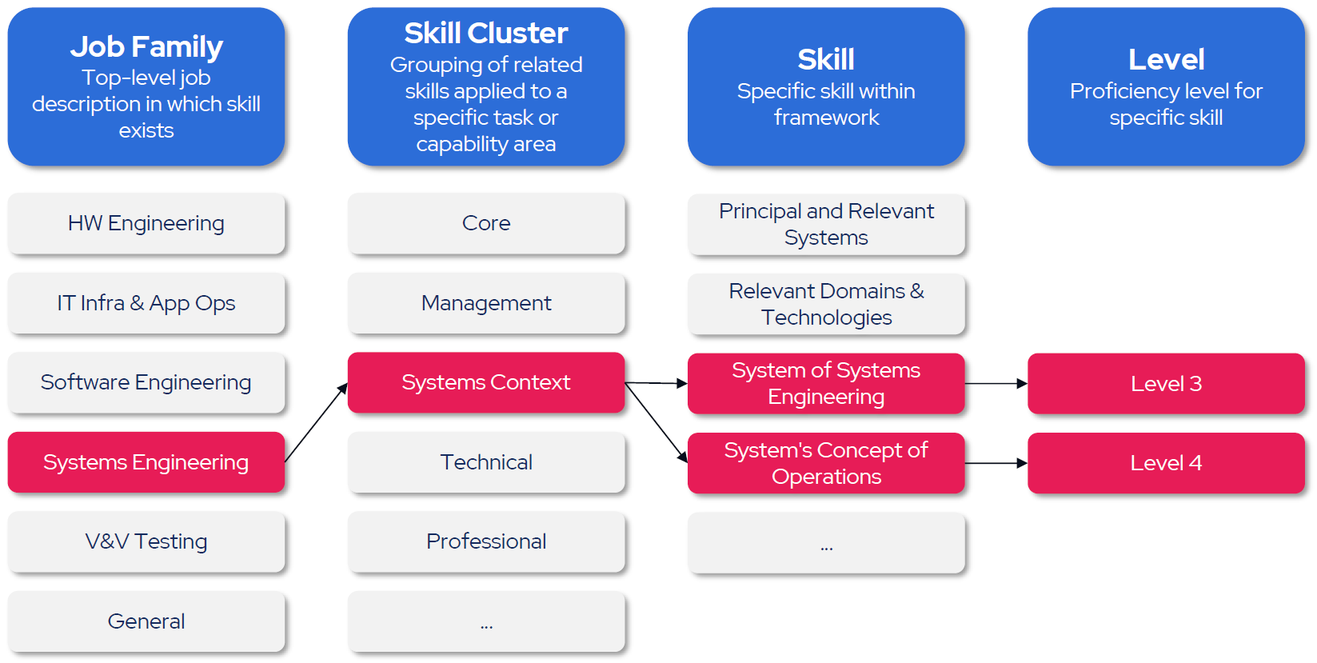
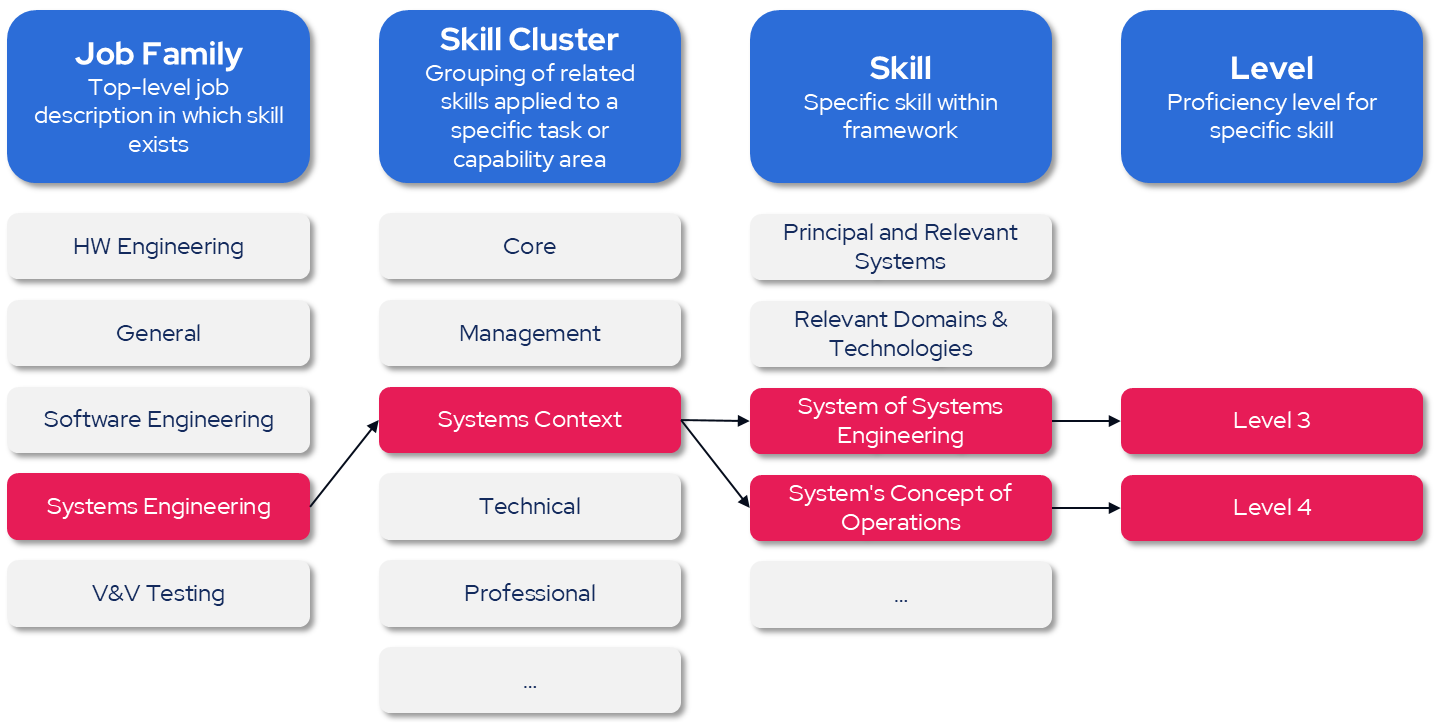
Update survey: v4 data, grid order, alignment fixes, and UI refinements
- Regenerate data.js from Skills Repository v4 (556 skills, 5 job families, IT Infra & App Ops removed)
- Update skills-structure.png with new diagram
- Reorder page 3 grids: Competencies → Technical → SME
- Reorder page 4 summary to match: Competencies → Technical → SME
- Rename summary heading from "Competencies Skills" to "Competencies"
- Fix grid alignment: use visible disabled JF dropdown instead of hidden dropdown + static label
- Style locked "General" dropdown to match normal appearance (white bg, no arrow)
- Remove IT Infra & App Ops filter checkbox from admin dashboard

diff --git a/survey/cubic-skills-survey/data.js b/survey/cubic-skills-survey/data.js
@@ -114,13 +114,17 @@ const SKILLS_DATA = {
         "Organizational change enablement",
         "Organizational change management"
       ],
-      "Systems Development": [
+      "Software Development": [
         "Animation development",
+        "Card and Transaction encryption and security",
+        "Card/Reader protocols and development",
+        "EMV processing and certification",
         "Functional testing",
         "Hardware design",
         "Infrastructure design",
         "Network design",
         "Non-functional testing",
+        "OS Drivers and Bord Firmware support development",
         "Process testing",
         "Product management",
         "Programming/software development",
@@ -269,17 +273,23 @@ const SKILLS_DATA = {
         "Test Planning"
       ],
       "Automation": [
+        "AI/ML driven testing",
         "Automation Strategy",
         "CI/CD Integration",
         "Framework Design",
         "Scripting",
+        "Test data management at scal",
         "Tool Selection"
       ],
       "Non-Functional": [
+        "Accessibility testing",
         "Compatibility Testing",
+        "Load testing",
         "Performance Testing",
         "Reliability Testing",
         "Security Testing",
+        "Security testing",
+        "Stress testing",
         "Usability Testing"
       ],
       "Agile Testing": [
@@ -289,73 +299,13 @@ const SKILLS_DATA = {
         "Test-Driven Development"
       ],
       "Tools": [
+        "Dashboard tools familiarity",
         "Data Management",
         "Defect Tracking",
         "Environment Setup",
         "Test Management Tools",
+        "Test reporting",
         "Version Control"
-      ]
-    },
-    "IT Infra and App Ops": {
-      "It Service Management": [
-        "Availability Management",
-        "Capacity Management",
-        "Change Management",
-        "Configuration Management (CMDB)",
-        "Incident Management",
-        "Knowledge Management",
-        "Major Incident Management",
-        "Problem Management",
-        "Service Level Management",
-        "Service Request Management"
-      ],
-      "Infrastructure Engineering": [
-        "Cloud Infrastructure (AWS/Azure/GCP)",
-        "Data Center Operations",
-        "Disaster Recovery & Business Continuity",
-        "Hybrid Cloud Architecture",
-        "Infrastructure Monitoring & Alerting",
-        "Infrastructure Security Hardening",
-        "Load Balancing & Traffic Management",
-        "Network Engineering & Administration",
-        "Server & Virtualization Management",
-        "Storage & Backup Management"
-      ],
-      "Application Operations & Support": [
-        "Application Configuration Management",
-        "Batch & Job Scheduling Management",
-        "End-User Support Escalation",
-        "Environment Management (Dev/Test/Prod)",
-        "Log Analysis & Troubleshooting",
-        "Monitoring & Observability",
-        "Patch & Upgrade Management",
-        "Performance Tuning & Optimization",
-        "Production Application Support",
-        "Release & Deployment Management"
-      ],
-      "Devops & Reliability Engineering": [
-        "Automation & Scripting (Python, Bash, PowerShell)",
-        "Blue/Green & Canary Deployments",
-        "CI/CD Pipeline Management",
-        "Chaos Engineering",
-        "Containerization (Docker, Kubernetes)",
-        "Infrastructure as Code (Terraform, CloudFormation)",
-        "Observability Engineering",
-        "Platform Engineering Practices",
-        "Release Automation",
-        "Site Reliability Engineering (SRE) Practices"
-      ],
-      "It Governance & Security Operations": [
-        "Access & Identity Management",
-        "Audit & Regulatory Compliance",
-        "Business Continuity Planning",
-        "Data Protection & Encryption",
-        "IT Controls & Compliance",
-        "Policy & Standards Development",
-        "Risk Assessment & Mitigation",
-        "Security Monitoring & Incident Response",
-        "Third-Party Risk Management",
-        "Vulnerability Management"
       ]
     },
     "HW Engineering": {
@@ -529,35 +479,68 @@ const SKILLS_DATA = {
     "General": {
       "Front-End Engineering": [
         "Angular",
+        "Flutter",
         "HTML5 / CSS3",
         "JavaScript (ES6+)",
+        "Next.js",
         "React",
+        "React Native",
+        "SASS / SCSS",
         "State Management (Redux, NgRx, MobX)",
         "TypeScript",
         "UI Performance Optimization",
         "Vue.js",
-        "Web Accessibility (WCAG / ADA)"
+        "Web Accessibility (WCAG / ADA)",
+        "Webpack / Vite"
       ],
       "Back-End Engineering": [
+        ".NET / ASP.NET",
+        "Apache Kafka",
         "Authentication & Authorization (OAuth2, JWT)",
+        "C",
         "C#",
+        "C++",
+        "COBOL",
         "Go",
         "GraphQL",
+        "Groovy",
+        "Hibernate / JPA",
         "Java",
+        "Kotlin",
         "Node.js",
+        "Objective-C",
+        "PHP",
         "Python",
-        "RESTful API Design"
+        "RESTful API Design",
+        "RabbitMQ",
+        "Ruby",
+        "Rust",
+        "Scala",
+        "Spring / Spring Boot",
+        "Swift",
+        "gRPC"
       ],
       "Data Engineering & Analytics": [
+        "Apache Airflow",
         "Apache Kafka",
         "Apache Spark",
         "Data Warehousing (Snowflake, Redshift, BigQuery)",
+        "Databricks",
         "ETL / ELT Pipelines",
+        "Hadoop",
+        "MATLAB",
+        "MySQL",
         "NoSQL Databases (MongoDB, Cassandra)",
+        "NumPy",
+        "Oracle Database",
+        "Pandas",
+        "PostgreSQL",
         "Power BI",
         "Real-Time Data Processing",
         "SQL",
-        "Tableau"
+        "Snowflake",
+        "Tableau",
+        "dbt"
       ],
       "Machine Learning & AI": [
         "Anomaly Detection",
@@ -602,13 +585,25 @@ const SKILLS_DATA = {
       ],
       "Cloud & Infrastructure": [
         "AWS",
+        "AWS EC2 / S3",
+        "AWS Lambda",
+        "Ansible",
         "Azure",
+        "Azure DevOps",
+        "Azure Functions",
         "CI/CD Pipelines",
+        "Chef",
         "Cloud Networking",
         "Docker",
+        "Google Cloud Compute",
         "Google Cloud Platform",
         "Infrastructure as Code (Terraform, CloudFormation)",
-        "Kubernetes"
+        "Kubernetes",
+        "Linux Administration",
+        "OpenShift",
+        "Puppet",
+        "VMware",
+        "Windows Server Administration"
       ],
       "Electronics Design & PCB Engineering": [
         "Altium",
@@ -705,6 +700,42 @@ const SKILLS_DATA = {
       ],
       "Hardware Design & Architecture": [
         "Pollutanat Materials"
+      ],
+      "DevOps & Platform Engineering": [
+        "Artifactory",
+        "Bitbucket",
+        "ELK Stack (Elasticsearch, Logstash, Kibana)",
+        "Git",
+        "GitHub",
+        "GitLab",
+        "Grafana",
+        "Jenkins",
+        "Nexus Repository",
+        "Prometheus",
+        "SonarQube"
+      ],
+      "Cybersecurity": [
+        "OWASP",
+        "Public Key Infrastructure (PKI)",
+        "SAST / DAST Tools",
+        "SIEM (Splunk)",
+        "Zero Trust Architecture"
+      ],
+      "Embedded Systems Engineering": [
+        "Assembly",
+        "CAN Bus",
+        "Embedded C",
+        "FreeRTOS",
+        "I2C",
+        "SPI",
+        "UART"
+      ],
+      "Enterprise / Business Systems": [
+        "JCL",
+        "Mainframe (z/OS)",
+        "SAP ABAP",
+        "Salesforce",
+        "ServiceNow"
       ]
     }
   }
@@ -713,7 +744,6 @@ const SKILLS_DATA = {
 const JOB_FAMILIES = [
   "General",
   "HW Engineering",
-  "IT Infra and App Ops",
   "Software Engineering",
   "Systems Engineering",
   "V&V Testing"

diff --git a/survey/cubic-skills-survey/app.js b/survey/cubic-skills-survey/app.js
@@ -191,16 +191,9 @@ function buildSkillRows(gridId, skillType) {
     row.appendChild(num);
 
     if (isHardcodedJF) {
-      // Hidden Job Family dropdown pre-set to "General"
+      // Job Family dropdown locked to "General" (visible but disabled for alignment)
       const jfGroup = createDropdownGroup('Job Family', `${skillType}-${i}-jf`, ['General'], true);
-      jfGroup.style.display = 'none';
       row.appendChild(jfGroup);
-
-      // Show "General" as static text in the first column
-      const jfLabel = document.createElement('div');
-      jfLabel.className = 'skill-jf-static';
-      jfLabel.textContent = 'General';
-      row.appendChild(jfLabel);
 
       // Skill Cluster dropdown (visible immediately, populated with General's clusters)
       const clusters = SKILLS_DATA[skillType] && SKILLS_DATA[skillType]['General']
@@ -238,10 +231,12 @@ function buildSkillRows(gridId, skillType) {
       skillGroup.appendChild(otherInput);
     }
 
-    // Pre-select "General" for hardcoded types
+    // Pre-select "General" and lock JF dropdown for hardcoded types
     if (isHardcodedJF) {
       const jfSelect = document.getElementById(`${skillType}-${i}-jf`);
       jfSelect.value = 'General';
+      jfSelect.disabled = true;
+      jfSelect.classList.add('locked-jf');
     }
 
     // Setup cascading logic
@@ -665,9 +660,9 @@ function buildSummary() {
   container.innerHTML = '<h3>Your Selections Summary</h3>';
 
   const sections = [
-    { title: 'Competencies Skills', data: surveyState.competencies },
-    { title: 'SME Skills', data: surveyState.sme },
-    { title: 'Technical Skills', data: surveyState.technical }
+    { title: 'Competencies', data: surveyState.competencies },
+    { title: 'Technical Skills', data: surveyState.technical },
+    { title: 'SME Skills', data: surveyState.sme }
   ];
 
   sections.forEach(section => {

diff --git a/survey/cubic-skills-survey/index.html b/survey/cubic-skills-survey/index.html
@@ -136,20 +136,6 @@
         <!-- 5 rows generated by JS -->
       </div>
 
-      <!-- SME Section -->
-      <h2 class="grid-section-title">SME Skills</h2>
-      <p class="grid-section-desc">Select up to 5 SME skills. Use the drop-down windows for each skill and then input your proficiency.</p>
-      <div class="grid-header" id="sme-header">
-        <div class="grid-header-num"></div>
-        <div class="grid-header-col">Job Family</div>
-        <div class="grid-header-col">Skill Cluster</div>
-        <div class="grid-header-col">Skill</div>
-        <div class="grid-header-col">Proficiency Level</div>
-      </div>
-      <div class="skills-grid compact" id="sme-grid">
-        <!-- 5 rows generated by JS -->
-      </div>
-
       <!-- Technical Section -->
       <h2 class="grid-section-title">Technical Skills</h2>
       <p class="grid-section-desc">Select up to 5 technical skills. Use the drop-down windows for each skill and then input your proficiency.</p>
@@ -161,6 +147,20 @@
         <div class="grid-header-col">Proficiency Level</div>
       </div>
       <div class="skills-grid compact" id="technical-grid">
+        <!-- 5 rows generated by JS -->
+      </div>
+
+      <!-- SME Section -->
+      <h2 class="grid-section-title">SME Skills</h2>
+      <p class="grid-section-desc">Select up to 5 SME skills. Use the drop-down windows for each skill and then input your proficiency.</p>
+      <div class="grid-header" id="sme-header">
+        <div class="grid-header-num"></div>
+        <div class="grid-header-col">Job Family</div>
+        <div class="grid-header-col">Skill Cluster</div>
+        <div class="grid-header-col">Skill</div>
+        <div class="grid-header-col">Proficiency Level</div>
+      </div>
+      <div class="skills-grid compact" id="sme-grid">
         <!-- 5 rows generated by JS -->
       </div>
 

diff --git a/survey/cubic-skills-survey/admin.html b/survey/cubic-skills-survey/admin.html
@@ -505,7 +505,6 @@
         <div class="filter-section">
           <div class="filter-section-title">Primary Job Family</div>
           <label class="filter-checkbox"><input type="checkbox" value="HW Engineering" checked> HW Engineering</label>
-          <label class="filter-checkbox"><input type="checkbox" value="IT Infra and App Ops" checked> IT Infra &amp; App Ops</label>
           <label class="filter-checkbox"><input type="checkbox" value="Software Engineering" checked> Software Engineering</label>
           <label class="filter-checkbox"><input type="checkbox" value="Systems Engineering" checked> Systems Engineering</label>
           <label class="filter-checkbox"><input type="checkbox" value="V&V Testing" checked> V&amp;V Testing</label>

diff --git a/survey/cubic-skills-survey/styles.css b/survey/cubic-skills-survey/styles.css
@@ -422,17 +422,6 @@ h3 {
   display: none;
 }
 
-/* Static Job Family label for hardcoded types */
-.skill-jf-static {
-  flex: 1;
-  min-width: 130px;
-  padding: 6px 10px;
-  font-size: 13px;
-  color: #475569;
-  font-weight: 600;
-  display: flex;
-  align-items: center;
-}
 
 .skill-dropdown-group select {
   padding: 6px 10px;
@@ -457,6 +446,16 @@ h3 {
   color: #94a3b8;
   cursor: not-allowed;
   opacity: 0.6;
+}
+
+.skill-dropdown-group select.locked-jf:disabled {
+  background: #fff;
+  color: #1e293b;
+  cursor: default;
+  opacity: 1;
+  -webkit-appearance: none;
+  -moz-appearance: none;
+  appearance: none;
 }
 
 .skill-dropdown-group.hidden {
